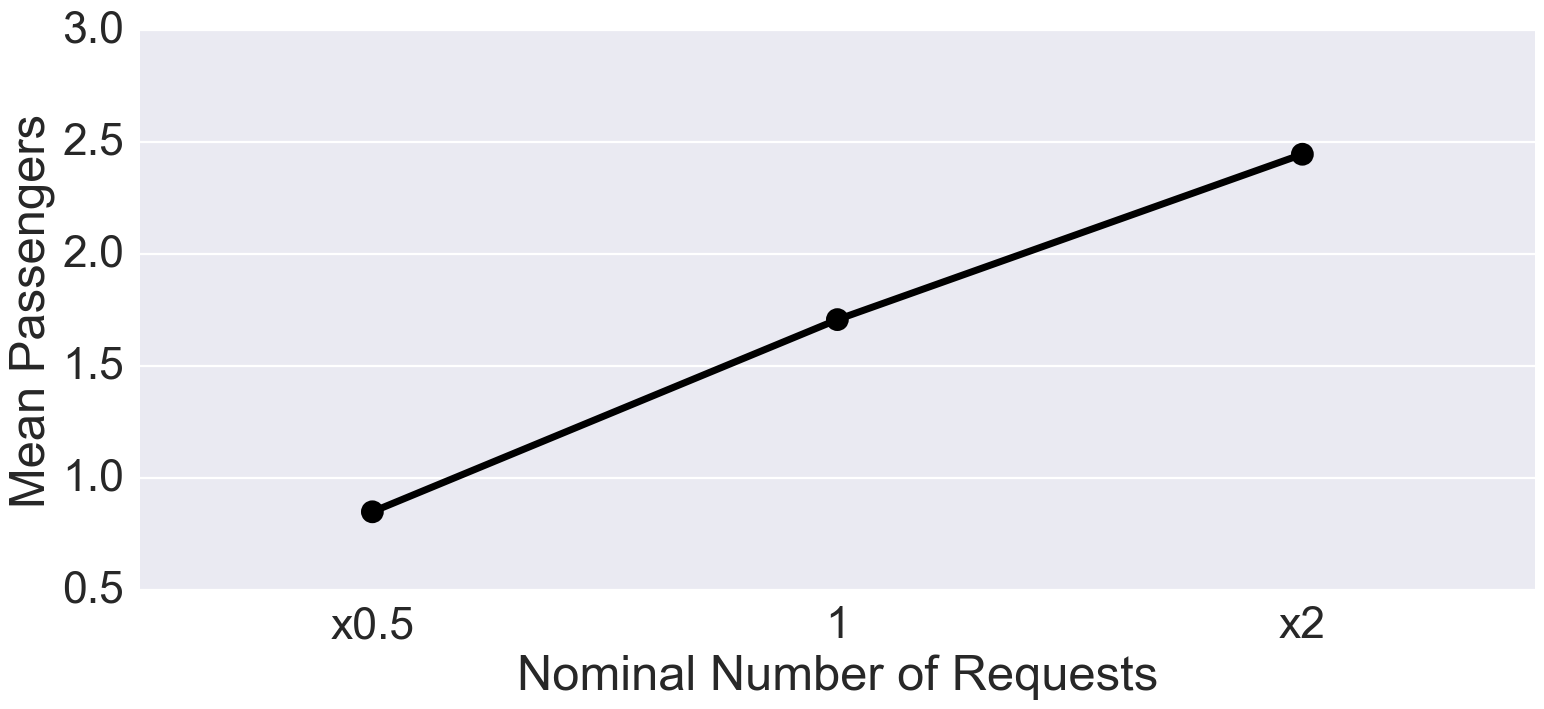
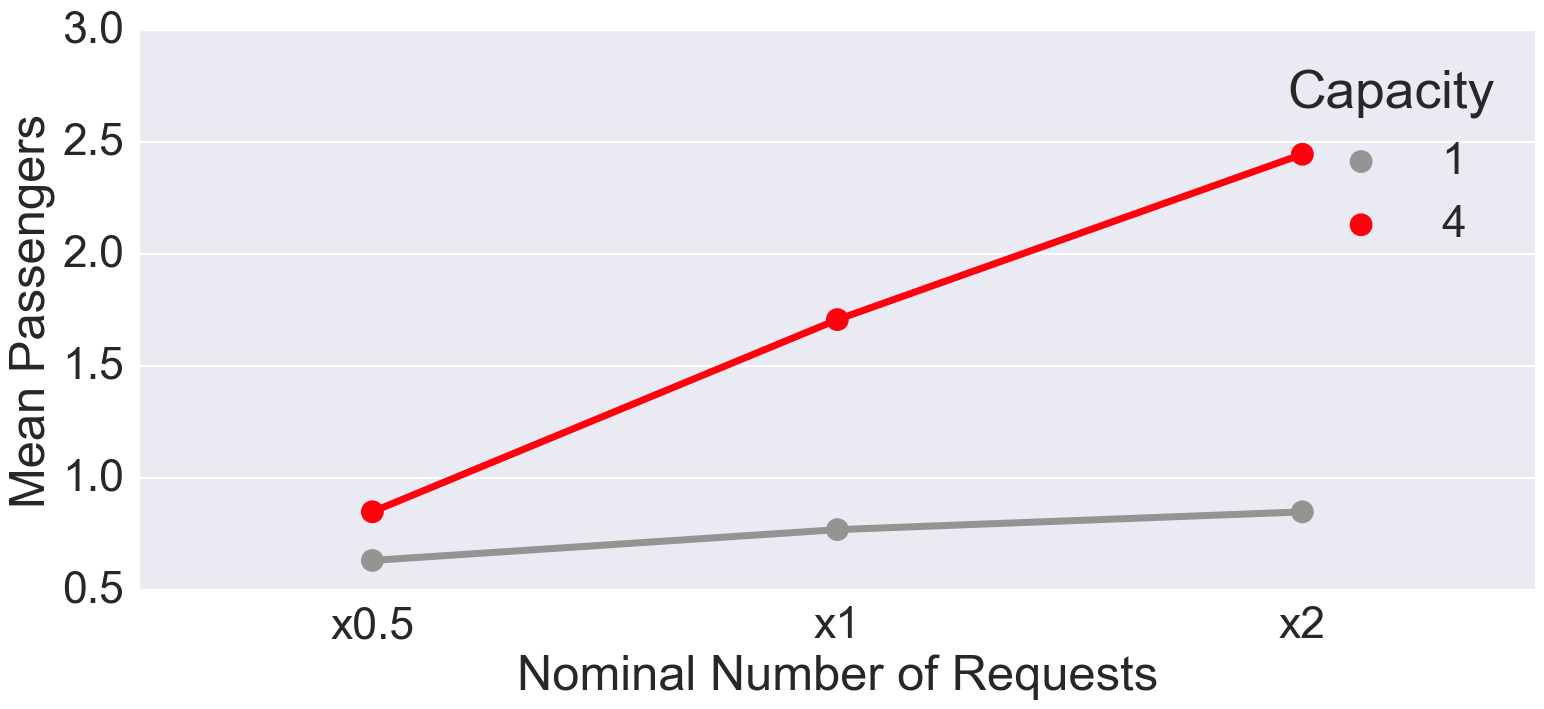
Plots added

diff --git a/scripts/plot_metrics.py b/scripts/plot_metrics.py
@@ -1,5 +1,5 @@
 
-import argparse
+# import argparse
 import common
 import numpy as np
 import matplotlib
@@ -15,6 +15,7 @@ from collections import defaultdict
 from tqdm import tqdm
 
 
+hours = ["same", "t12", "t19"]
 demands = ["half", "same", "double"]
 intervals = [10, 20, 30, 40, 50]
 predictions = ["0-nR", 0, 100, 200, 300, 400]
@@ -28,6 +29,7 @@ fields = ["mean_waiting_time", "mean_passengers", "mean_delay", "n_pickups",
 caps = [1, 2, 4, 10]
 clrs = [sns.xkcd_rgb["grey"], sns.xkcd_rgb["sky blue"],
         sns.xkcd_rgb["bright red"], sns.xkcd_rgb["black"]]
+dem_clrs = [sns.xkcd_rgb["grey"], sns.xkcd_rgb["bright red"]]
 days = ["Sunday", "Monday", "Tuesday", "Wednesday", "Thursday", "Friday",
         "Saturday"]
 
@@ -490,15 +492,17 @@ def make_interval_comp_plots(df):
 
 def make_demand_df():
     dfs = list()
-    for i in demands:
-        df = common.get_demand_metrics(i)
-        df["n_shared_per_passenger"] = df["n_shared"].sum() \
-            / df["n_pickups"].sum()
-        ser = df[fields + ["n_shared_per_passenger"]].mean()
-        data = ser.values.reshape((1, 15))
-        mean_df = pd.DataFrame(data=data, columns=ser.index)
-        mean_df["demand"] = i
-        dfs.append(mean_df)
+    for cap in [1, 4]:
+        for i in demands:
+            df = common.get_demand_metrics(i, cap)
+            df["n_shared_per_passenger"] = df["n_shared"].sum() \
+                / df["n_pickups"].sum()
+            ser = df[fields + ["n_shared_per_passenger"]].mean()
+            data = ser.values.reshape((1, 15))
+            mean_df = pd.DataFrame(data=data, columns=ser.index)
+            mean_df["demand"] = i
+            mean_df["capacity"] = cap
+            dfs.append(mean_df)
     big_d = pd.concat(dfs)
     return big_d
 
@@ -506,16 +510,18 @@ def make_demand_df():
 def make_demand_plots(df):
     for field in tqdm(fields + ["n_shared_per_passenger"]):
         fig, ax = plt.subplots(1, 1, figsize=(18, 7))
-        ax = sns.pointplot(x="demand", y=field, data=df,
-                           color=sns.xkcd_rgb["black"], ax=ax)
+        ax = sns.pointplot(x="demand", y=field, hue="capacity", data=df,
+                           palette=dem_clrs, ax=ax)
         ax.set_xlabel("Nominal Number of Requests")
         ax.set_ylabel(prettify(field))
-        ax.set_xticklabels(["x0.5", "1", "x2"])
+        ax.set_xticklabels(["x0.5", "x1", "x2"])
         if "%" in prettify(field):
             ax.set_ylim(0, 1)
             vals = ax.get_yticks()
             yticklabels = ['{:3.0f}%'.format(x * 100) for x in vals]
             ax.set_yticklabels(yticklabels)
+        handles, _ = ax.get_legend_handles_labels()
+        ax.legend(handles, [1, 4], title="Capacity")
         filename = "figs/demand-{}.png".format(field)
         plt.savefig(filename, bbox_inches="tight")
         plt.close()
@@ -523,21 +529,71 @@ def make_demand_plots(df):
 
 def make_demand_comp_plots(df):
     fig, ax = plt.subplots(1, 1, figsize=(18, 7))
-    sns.pointplot(x="demand", y="comp_time", data=df, ax=ax,
-                  color=sns.xkcd_rgb["black"])
+    sns.pointplot(x="demand", y="comp_time", hue="capacity", data=df, ax=ax,
+                  palette=dem_clrs)
     ax.set_ylabel(prettify("comp_time"))
     ax.set_xlabel("Nominal Number of Requests")
-    ax.set_xticklabels(["x0.5", "1", "x2"])
+    ax.set_xticklabels(["x0.5", "x1", "x2"])
+    handles, _ = ax.get_legend_handles_labels()
+    ax.legend(handles, [1, 4], title="Capacity")
     plt.savefig("figs/demand-comp_time.png", bbox_inches="tight")
+    plt.close()
+
+
+def make_hour_df():
+    dfs = list()
+    for i in hours:
+        df = common.get_hour_metrics(i)
+        df["n_shared_per_passenger"] = df["n_shared"].sum() \
+            / df["n_pickups"].sum()
+        ser = df[fields + ["n_shared_per_passenger"]].mean()
+        data = ser.values.reshape((1, 15))
+        mean_df = pd.DataFrame(data=data, columns=ser.index)
+        mean_df["hour"] = i
+        dfs.append(mean_df)
+    big_d = pd.concat(dfs)
+    return big_d
+
+
+def make_hour_plots(df):
+    for field in tqdm(fields + ["n_shared_per_passenger"]):
+        fig, ax = plt.subplots(1, 1, figsize=(18, 7))
+        ax = sns.pointplot(x="hour", y=field, data=df,
+                           color=sns.xkcd_rgb["black"], ax=ax)
+        filename = "figs/hour-{}.png".format(field)
+        ax.set_xlabel("Time of Day used for Travel Time")
+        ax.set_ylabel(prettify(field))
+        ax.set_xticklabels(["Mean", "12 am", "7 pm"])
+        if "%" in prettify(field):
+            ax.set_ylim(0, 1)
+            vals = ax.get_yticks()
+            yticklabels = ['{:3.0f}%'.format(x * 100) for x in vals]
+            ax.set_yticklabels(yticklabels)
+
+        plt.savefig(filename, bbox_inches="tight")
+        plt.close()
+
+
+def make_hour_comp_plots(df):
+    fig, ax = plt.subplots(1, 1, figsize=(18, 7))
+    sns.pointplot(x="hour", y="comp_time", data=df, ax=ax,
+                  color=sns.xkcd_rgb["black"])
+    ax.set_xlabel("Time of Day used for Travel Time")
+    ax.set_ylabel(prettify("comp_time"))
+    ax.set_xticklabels(["Mean", "12 am", "7 pm"])
+    plt.savefig("figs/hour-comp_time.png", bbox_inches="tight")
     plt.close()
 
 
 if __name__ == "__main__":
     sns.set_context("poster", font_scale=2)
-    # df = make_interval_df()
-    # make_interval_plots(df)
-    # comp_df = pd.read_csv("data/demand-times.csv")
-    # make_interval_comp_plots(comp_df)
+    df = make_hour_df()
+    comp_df = pd.read_csv("data/hour-times.csv")
+    make_hour_plots(df)
+    df = make_interval_df()
+    make_interval_plots(df)
+    comp_df = pd.read_csv("data/interval-times.csv")
+    make_interval_comp_plots(comp_df)
     df = make_demand_df()
     make_demand_plots(df)
     comp_df = pd.read_csv("data/demand-times.csv")

diff --git a/scripts/load_comp_times.py b/scripts/load_comp_times.py
@@ -72,12 +72,17 @@ def generate_interval_time_df():
     return data
 
 
-def get_demand_comp_filenames(demand, day):
+def get_demand_comp_filenames(demand, cap, day):
     if demand == "same":
-        return get_comp_filenames(2000, 4, 300, 0, day)
+        return get_comp_filenames(2000, cap, 300, 0, day)
+    if cap == 1:
+        if demand == "half":
+            demand = "short"
+        if demand == "double":
+            demand = "long"
     dir_temp = ("v{0}-c{1}-w{2}-p{3}-{5}/"
                 "v{0}-c{1}-w{2}-p{3}-{4}-18-2013-*/graphs/")
-    graph_dir = dir_temp.format(2000, 4, 300, 0, day, demand)
+    graph_dir = dir_temp.format(2000, cap, 300, 0, day, demand)
     first = glob.glob(NFS_PATH + graph_dir + "data-graphs-0.txt")[0]
     last = glob.glob(NFS_PATH + graph_dir + "data-graphs-86340.txt")[0]
     return first, last
@@ -85,11 +90,37 @@ def get_demand_comp_filenames(demand, day):
 
 @print_here()
 def generate_demand_time_df():
-    cols = ["demand", "day", "comp_time"]
+    cols = ["demand", "capacity", "day", "comp_time"]
     data = pd.DataFrame(columns=cols)
     counter = 0
-    for i, d in product(demands, range(1, 8)):
-        s, e = get_demand_comp_filenames(i, d)
+    for i, c, d in product(demands, [1, 4], range(1, 8)):
+        s, e = get_demand_comp_filenames(i, c, d)
+        diff = (path.getctime(e) - path.getctime(s)) / 2878
+        if diff > 500:
+            diff = 2.9
+        data.loc[counter] = [i, c, d - 1, diff]
+        counter += 1
+    return data
+
+
+def get_hour_comp_filenames(hour, day, cap=4):
+    if hour == "same":
+        return get_comp_filenames(2000, cap, 300, 0, day)
+    dir_temp = ("v{0}-c{1}-w{2}-p{3}-{5}/"
+                "v{0}-c{1}-w{2}-p{3}-{4}-18-2013-*/graphs/")
+    graph_dir = dir_temp.format(2000, cap, 300, 0, day, hour)
+    first = glob.glob(NFS_PATH + graph_dir + "data-graphs-0.txt")[0]
+    last = glob.glob(NFS_PATH + graph_dir + "data-graphs-86340.txt")[0]
+    return first, last
+
+
+@print_here()
+def generate_hour_time_df():
+    cols = ["hour", "day", "comp_time"]
+    data = pd.DataFrame(columns=cols)
+    counter = 0
+    for i, d in product(["same", "t12", "t19"], range(1, 8)):
+        s, e = get_hour_comp_filenames(i, d)
         diff = (path.getctime(e) - path.getctime(s)) / 2878
         if diff > 500:
             diff = 2.9
@@ -99,5 +130,5 @@ def generate_demand_time_df():
 
 
 if __name__ == "__main__":
-    df = generate_demand_time_df()
-    df.to_csv("data/demand-times.csv")
+    df = generate_hour_time_df()
+    df.to_csv("data/hour-times.csv")

diff --git a/scripts/common.py b/scripts/common.py
@@ -50,12 +50,40 @@ def get_interval_metrics(interval):
     return df
 
 
-def get_demand_metrics(demand):
+def get_demand_metrics(demand, cap=4):
     if demand == "same":
-        return get_metrics(2000, 4, 300, 0)
+        return get_metrics(2000, cap, 300, 0)
+    if cap == 1:
+        if demand == "half":
+            demand = "short"
+        if demand == "double":
+            demand = "long"
 
     m_file = NFS_PATH + "v{}-c{}-w{}-p{}-{}/metrics_pnas.csv".format(
-        2000, 4, 300, 0, demand)
+        2000, cap, 300, 0, demand)
+    df = pandas.read_csv(m_file)
+    df.sort_values("time", inplace=True)
+    df.reset_index(inplace=True)
+    df["serviced_percentage"] = df["n_pickups"].sum() \
+        / (df["n_pickups"].sum() + df["n_ignored"].sum())
+    df["mean_travel_delay"] = df["mean_delay"] - df["mean_waiting_time"]
+    df["serviced_percentage"] = df["n_pickups"].sum() / \
+        (df["n_ignored"].sum() + df["n_pickups"].sum())
+    df["km_travelled_per_car"] = df["total_km_travelled"] / df["n_vehicles"]
+    df["n_shared_perc"] = df["n_shared"] / (df["n_shared"] + df["time_pass_1"])
+    df.drop("Unnamed: 0", axis=1, inplace=True)
+    df.drop("capacity", axis=1, inplace=True)
+    df.drop("is_long", axis=1, inplace=True)
+    df.drop("n_vehicles", axis=1, inplace=True)
+    return df
+
+
+def get_hour_metrics(hour, cap=4):
+    if hour == "same":
+        return get_metrics(2000, cap, 300, 0)
+
+    m_file = NFS_PATH + "v{}-c{}-w{}-p{}-{}/metrics_pnas.csv".format(
+        2000, cap, 300, 0, hour)
     df = pandas.read_csv(m_file)
     df.sort_values("time", inplace=True)
     df.reset_index(inplace=True)
